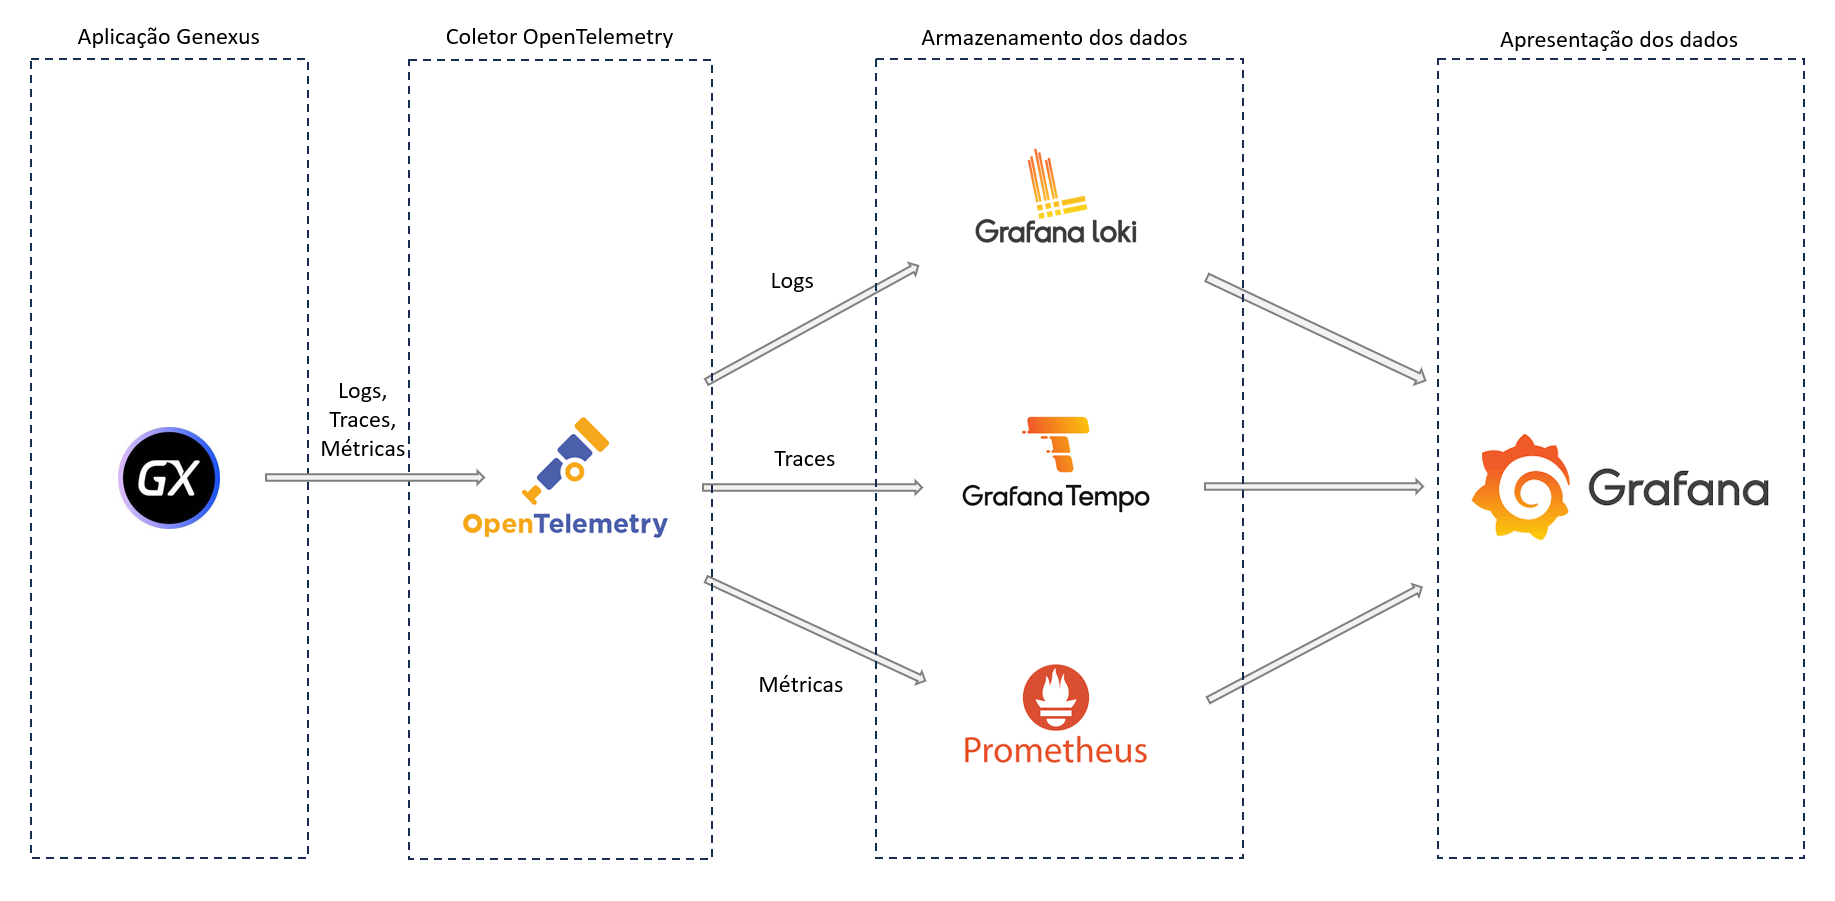
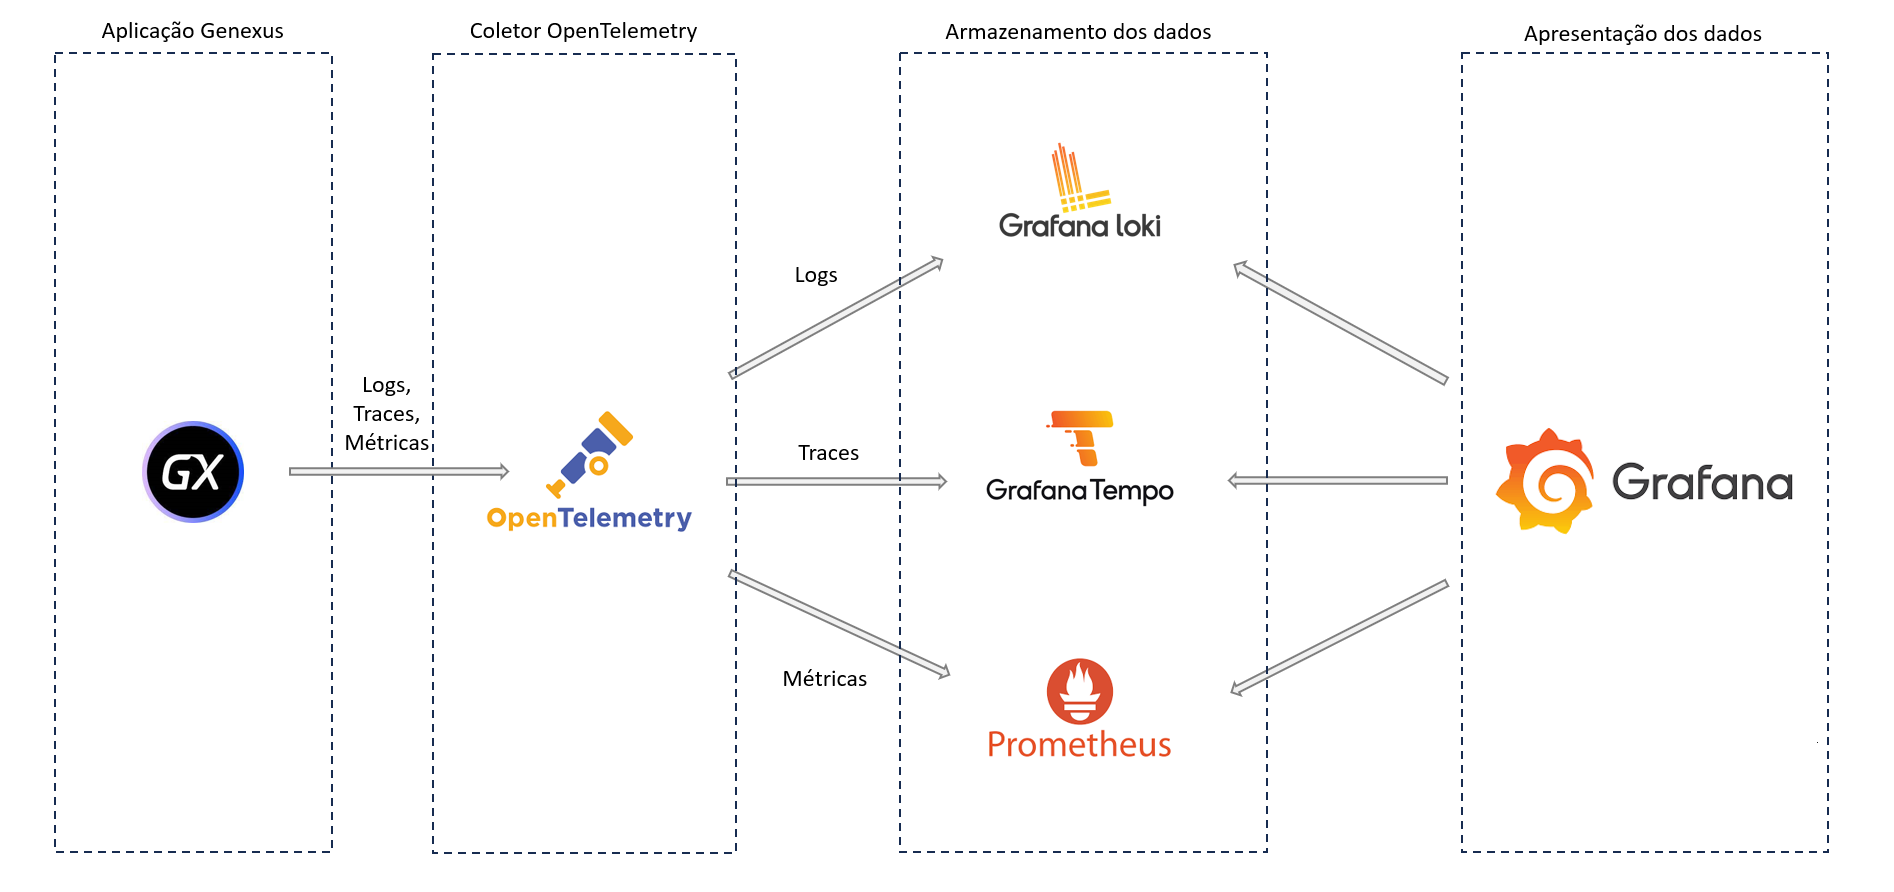
arquitetura

diff --git a/docs/01-atividade.md b/docs/01-atividade.md
@@ -54,11 +54,11 @@ Como esses softwares são open source, é possível a instalação deles num amb
 
 O diagrama abaixo apresenta a arquitetura dos componentes:
 
-![diagrama dos componentes](images/gxopentelemetrydiagram.png)
+![diagrama dos componentes](images/opentelemetrydiagram.png)
 
 ### Copiar os arquivos do hands-on
 
-Para copiar os arquivos do hands-on realizar o clone do repositório git ou realizar o download do zip.
+Para copiar os arquivos do hands-on, realizar o clone do repositório git ou o download do zip.
 
 ![githubproject](images/githubproject.png)
 
